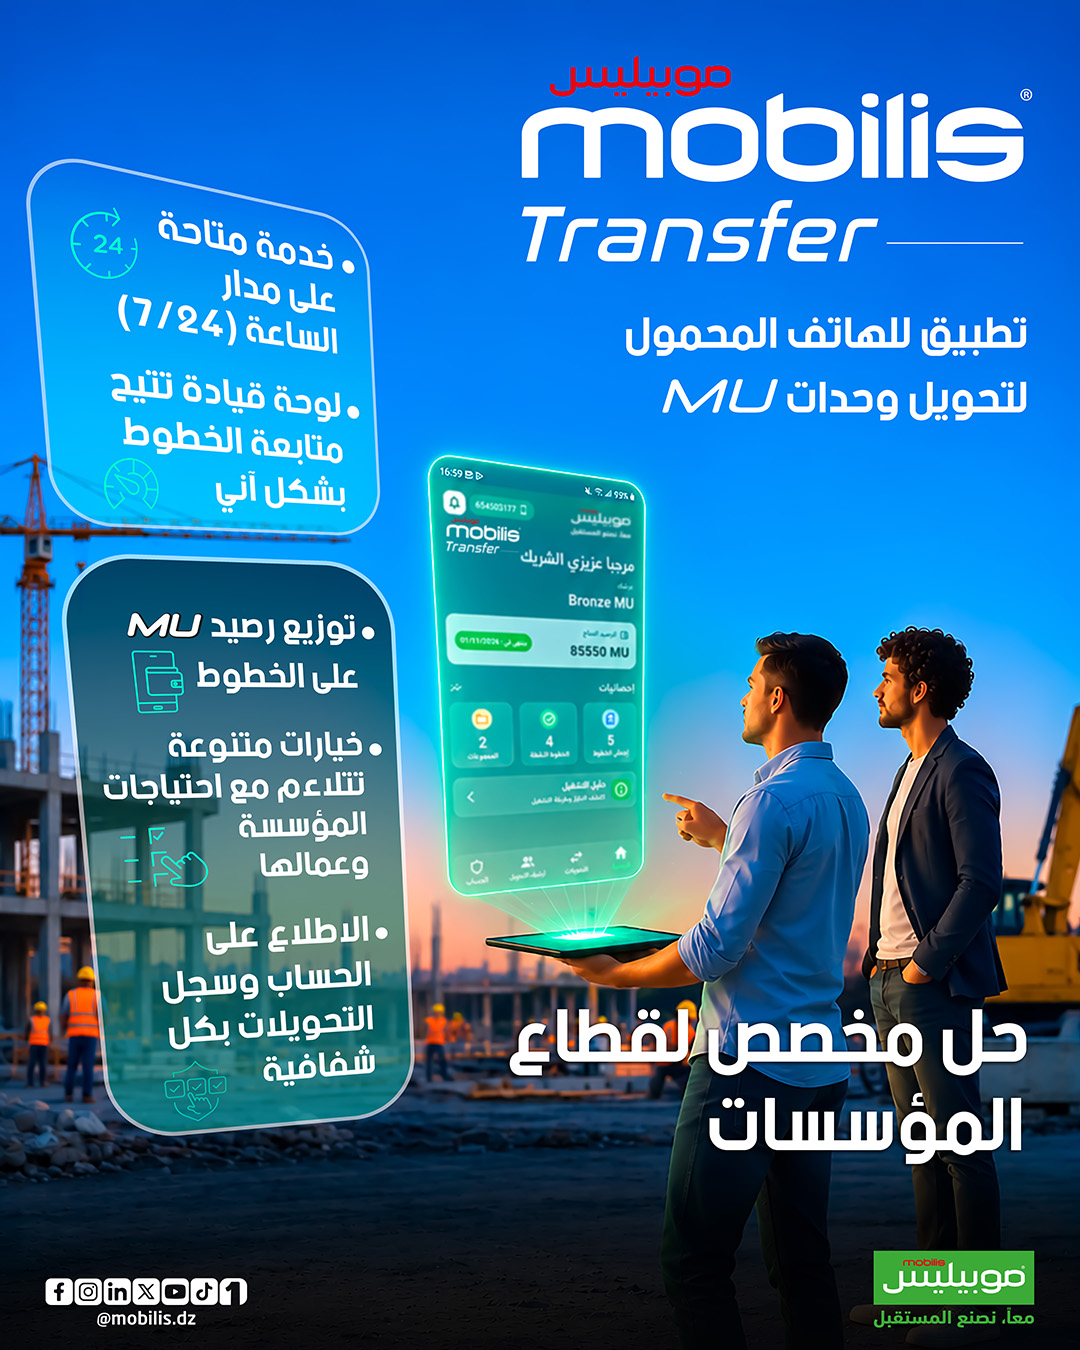
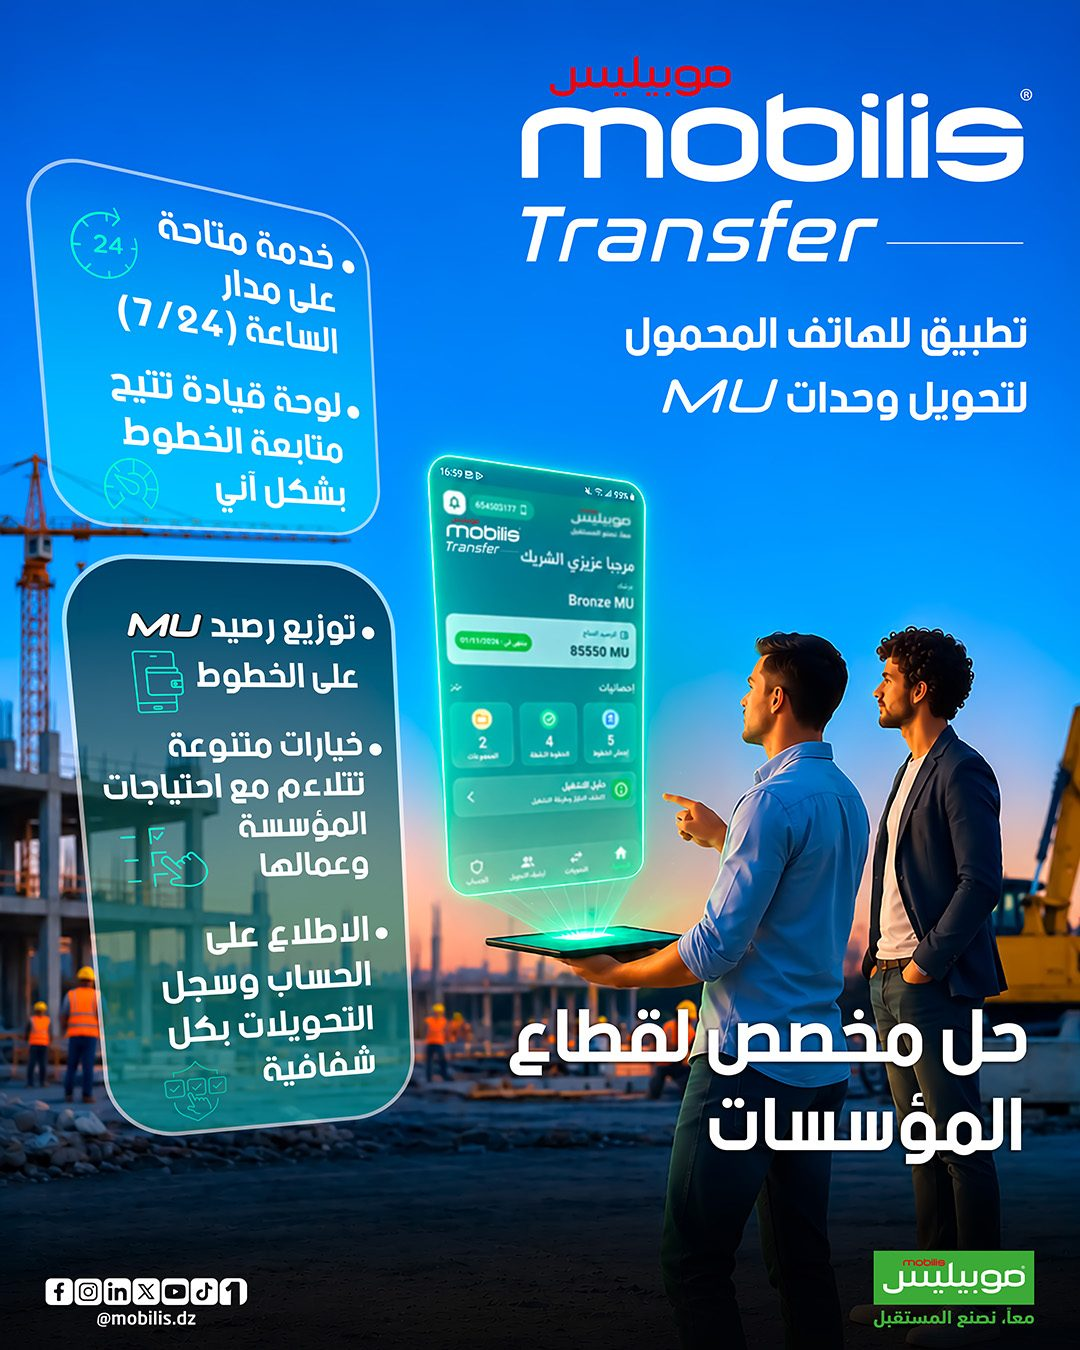
Auto: optimisation des nouvelles images (WebP, recompression, vignettes)

diff --git a/articles/1795120632131.md b/articles/1795120632131.md
@@ -22,7 +22,7 @@ Alger, 19 novembre 2026 (Algeria Tech) — Ooredoo a décerné les prix de la 19
 
 La cérémonie de remise des prix s'est tenue à l'hôtel Sheraton d'Alger, sur le thème « L'impact de l'intelligence artificielle et de la 5G sur les transformations socio-économiques en Algérie ». Elle a réuni des personnalités du monde médiatique, technologique et numérique. Le ministre de la Communication, Mohamed Bouslimani, était présent pour honorer les lauréats. Roni Tohme, directeur général d'Ooredoo Algérie, a ouvert la cérémonie en soulignant l'importance de l'excellence journalistique dans un contexte de mutations technologiques.
 
-![Remise des prix de la 19ème édition de Media Star, à Alger](/images/inline-1795120565347-ppmckg.png)
+![Remise des prix de la 19ème édition de Media Star, à Alger](/images/inline-1795120565347-ppmckg.webp)
 
 ## Les lauréats
 
